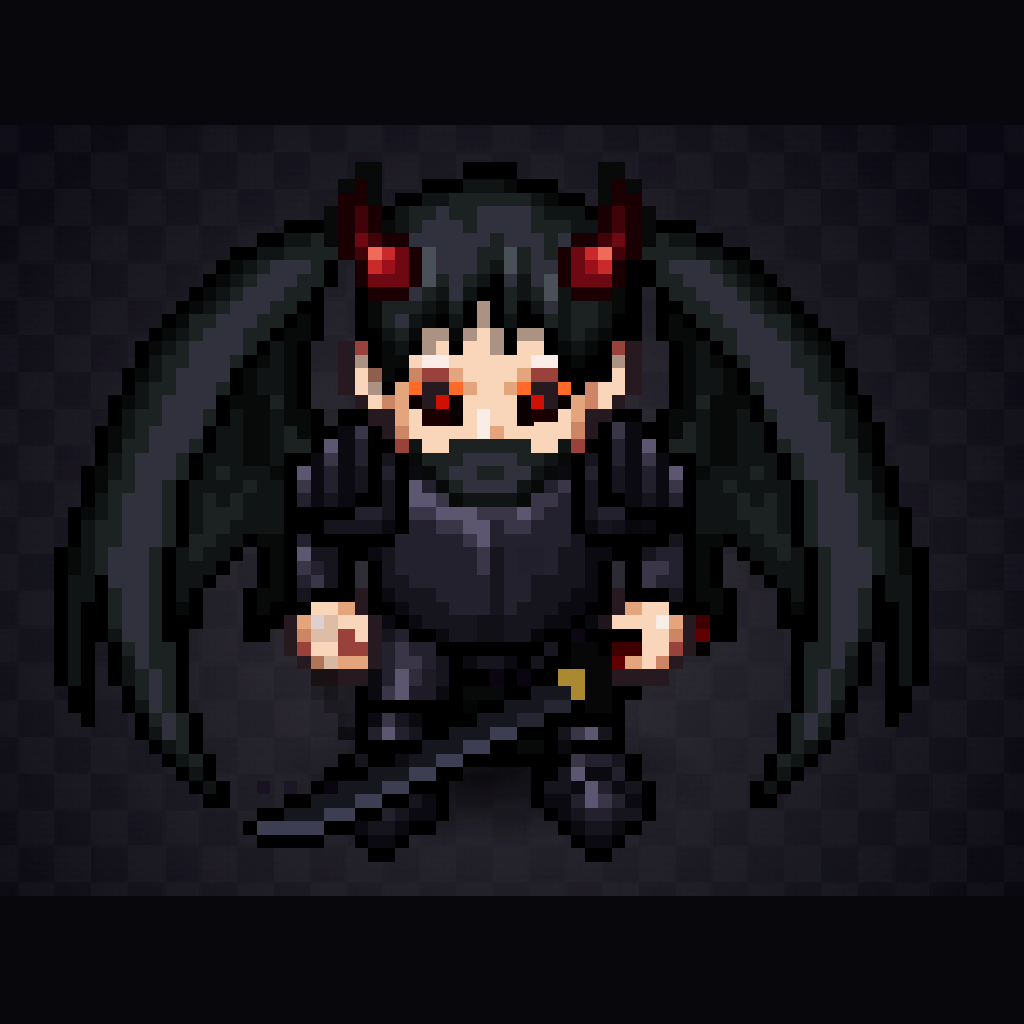
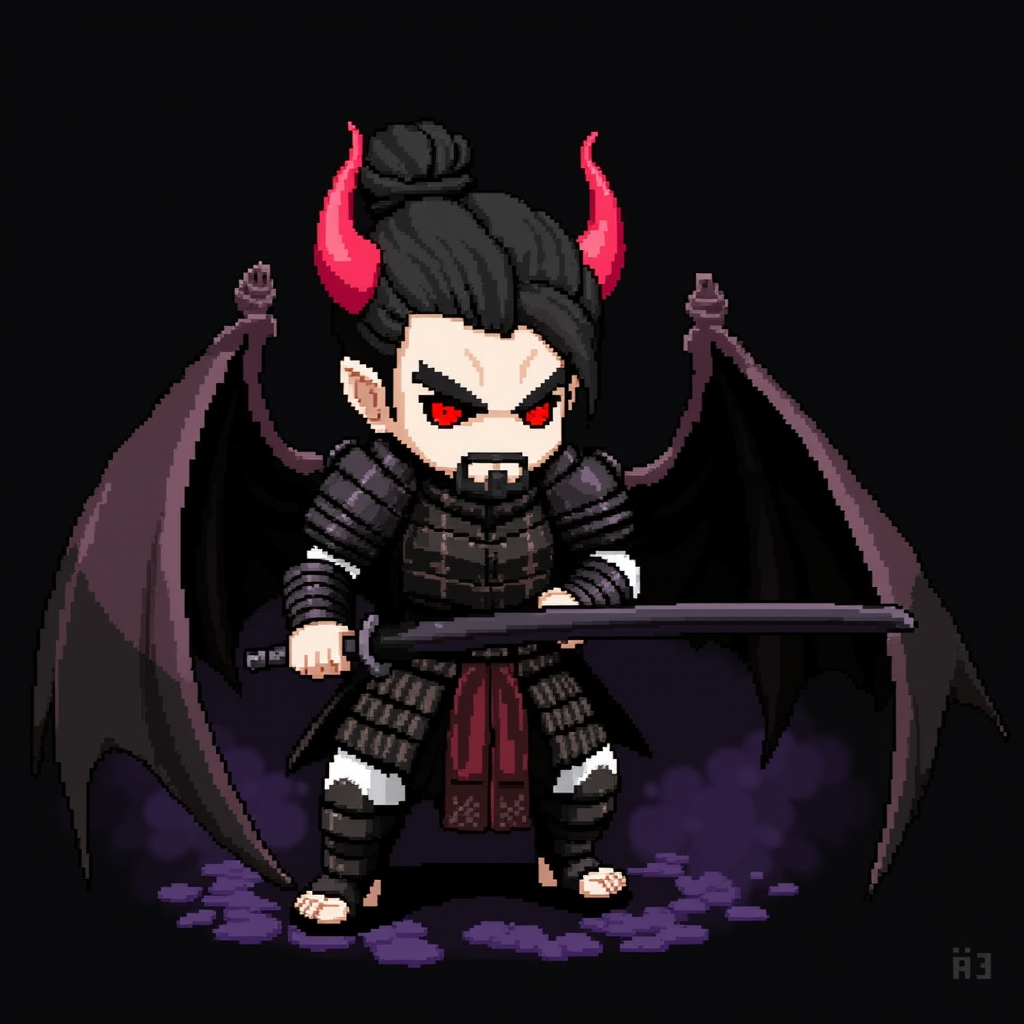
feat: Void Sun 3.4.2 — samurai do logotipo é homem; veios de brasa do Daédrico em qualquer cor

diff --git a/src/avatar/forge.ts b/src/avatar/forge.ts
@@ -16,17 +16,21 @@ export interface Forge {
   trim?: string | 'light';
   /** Marca no peito. */
   sigil?: 'ridges' | 'rune' | 'sun' | 'cross' | 'gem' | 'ribs';
+  /** Veios de brasa nas frestas e nos brilhos da peça, seja qual for a cor do metal. */
+  veins?: boolean;
   /** Cor da marca e das pontas (quando não é a do metal). */
   accent?: string;
 }
 
 /** A brasa das peças daédricas (o boneco animado faz esses pontos pulsarem). */
 export const EMBER = '#ff5a2a';
+/** Brasa escura: o veio nas frestas das placas. */
+export const EMBER_DARK = '#7a0c10';
 /** Brasa média: as arestas das quilhas e o corpo das pontas. */
 export const EMBER_MID = '#d2381c';
 
 export const FORGES: Record<string, Forge> = {
-  daedric: { pt: 'Daédrico', en: 'Daedric', spikes: 'horn', sigil: 'ridges', accent: EMBER },
+  daedric: { pt: 'Daédrico', en: 'Daedric', spikes: 'horn', sigil: 'ridges', veins: true, accent: EMBER },
   ebony: { pt: 'Ébano', en: 'Ebony', texture: 'bands', trim: '#a9a3c4' },
   dragon: { pt: 'Sangue de dragão', en: 'Dragonblood', texture: 'scales', spikes: 'bone', accent: '#ffd9a0' },
   frost: { pt: 'Guardião do gelo', en: 'Frost warden', texture: 'facets', spikes: 'crystal', accent: '#ffffff' },
@@ -103,6 +107,16 @@ export function forge(ctx: CanvasRenderingContext2D, slot: SlotId, style: string
     const front = rows === 1 || r === 2, back = rows > 1 && r === 0;
     // (as mudanças são decididas com a peça original e aplicadas depois, para uma não interferir na outra)
     const todo: [number, number, readonly [number, number, number]][] = [];
+
+    if (plates && f.veins) {
+      // os veios vêm dos tons da própria peça (a sombra das frestas e o brilho), então existem em qualquer cor
+      const vein = rgb(EMBER_DARK);
+      for (let y = by; y <= ey; y++) for (let x = bx; x <= ex; x++) {
+        if (!solid(x0 + x, y0 + y)) continue;
+        const t = tone(x0 + x, y0 + y);
+        if (t === 1) todo.push([x, y, vein]); else if (t === 5) todo.push([x, y, accent]);
+      }
+    }
 
     if (plates && f.texture) {
       for (let y = by; y <= ey; y++) for (let x = bx; x <= ex; x++) {

diff --git a/src/avatar/lpc.ts b/src/avatar/lpc.ts
@@ -7,7 +7,7 @@
  * tools/lpc/montar.py). Créditos dos artistas: src/data/lpc-credits.json.
  */
 import raw from '../data/lpc.json';
-import { cover, EMBER, EMBER_MID, forge, FORGES } from './forge';
+import { cover, EMBER, EMBER_DARK, EMBER_MID, forge, FORGES } from './forge';
 
 export type Body = 'male' | 'female' | 'muscular';
 export type Anim = 'idle' | 'walk' | 'slash' | 'thrust' | 'shoot' | 'spellcast' | 'hurt';
@@ -358,7 +358,7 @@ async function build(av: Avatar, anim: Anim): Promise<Sheet> {
   let glow: HTMLCanvasElement | undefined;
   const ember = LPC.palettes.metal.colors.daedric;
   if (ember && Object.values(av.parts).some((p) => p?.color === 'daedric' || p?.style === 'daedric')) {
-    const veins = [ember[1], ember[5], EMBER, EMBER_MID].map(rgb);
+    const veins = [ember[1], ember[5], EMBER, EMBER_DARK, EMBER_MID].map(rgb);
     const src = ctx.getImageData(0, 0, canvas.width, canvas.height).data;
     const g = layer(), data = g.createImageData(canvas.width, canvas.height), d = data.data;
     let any = false;

diff --git a/src/ui/home/Splash.svelte b/src/ui/home/Splash.svelte
@@ -36,7 +36,7 @@
     band.addColorStop(0, 'rgb(255 255 255 / 0)'); band.addColorStop(0.5, 'rgb(255 255 255 / .035)'); band.addColorStop(1, 'rgb(255 255 255 / 0)');
     /** Onde a figura ficou na tela, e a lâmina da katana dentro dela (de onde sobe a fumaça). */
     let fig: { x: number; y: number } | null = null;
-    const BLADE = { x0: 56, x1: 106, y: 67 }, SMOKE = ['#a274ff', '#6f48c0', '#43307a', '#231a3c'];
+    const BLADE = { x0: 46, x1: 110, y: 63 }, SMOKE = ['#a274ff', '#6f48c0', '#43307a', '#231a3c'];
     let raf = 0, t0 = 0, exitAt = Infinity, exitLen = 520, over = false;
 
     /** A janela cabe um número inteiro de vezes na grade: cada ponto do desenho vira um quadrado exato. */

diff --git a/tools/comfyui/gerar_telas.py b/tools/comfyui/gerar_telas.py
@@ -30,14 +30,13 @@ ARTS = [
      "vertical composition: two rival heroes facing each other in a duel on a dark stone arena, on the left an armored knight with a sword and red cape, on the right a hooded mage with a glowing blue staff, "
      "both in profile, sparks between them, under a black sun in total eclipse with a thin white-gold corona in a deep indigo starry sky."),
     # logotipo do desenvolvedor (tela de abertura): fundo preto liso, para assentar sobre a tela preta
-    # (parte de uma foto do boneco do jogo, em tools/comfyui/ref: a figura sai parecida com ele, com mais detalhe e uma guitarra)
-    ('estudio', 117, 1024, 1024,
-     "one single full body chibi game character sprite on a plain pure black background: a small evil demon dark samurai with a big head and a small body, "
-     "standing in a low samurai fighting stance with legs apart, holding a katana with both hands, the long katana blade is pure black and points diagonally upward, "
-     "thick black and purple smoke rises from the black blade. "
-     "Very long straight black hair in two big twin tails, two short curved bright red horns on top of the head, glowing red eyes with a cruel evil glare under angry brows, a pale face, "
-     "the mouth is closed in a thin cold line. Two large demon bat wings spread wide open behind the back, each wing with clearly drawn bony fingers and dark crimson membranes between them. "
-     "Black samurai armor: layered lamellar shoulder guards, black chest plate tied with dark red cords, black armored skirt plates, black boots. "
+    # (parte da arte aprovada, em tools/comfyui/ref: `denoise` baixo mexe pouco nela)
+    ('estudio', 131, 1024, 1024,
+     "one single full body chibi game character sprite on a plain pure black background: a small evil male demon dark samurai, a man, with a big head and a small body, "
+     "standing in a low samurai fighting stance with legs apart, holding a black katana horizontally with both hands, thick black and purple smoke around his feet and rising from the blade. "
+     "He is clearly a man: a masculine face with a strong square jaw, thick angry black eyebrows, narrow glowing red eyes with a cruel evil glare, a dark stubble beard on the chin, "
+     "the mouth closed in a thin cold line. Black hair tied up in a samurai topknot with loose strands, two curved bright red horns on top of the head, a pale face. "
+     "Two large dark demon bat wings spread open behind his back. Broad shoulders. Black samurai armor: layered lamellar shoulder guards, black chest plate tied with dark red cords, black armored skirt plates, black boots. "
      "Simple readable shapes, the whole figure from the horns and wing tips to the feet inside the frame, centered, with empty black space around it. Flat black background, nothing else."),
     ('campanha', 43, 1024, 1280,
      "vertical composition: a winding road through a dark fantasy world map landscape seen from a high cliff, distant ruined castle, dead forest, mountains and a glowing violet rift on the horizon, "
@@ -87,7 +86,7 @@ for aid, seed, w, h, prompt in ARTS:
         t0 = time.time()
         if aid == 'estudio':
             shutil.copy(os.path.join(os.path.dirname(os.path.abspath(__file__)), 'ref', 'estudio-ref.png'), os.path.join(os.path.expanduser('~/ComfyUI/input'), 'estudio-ref.png'))
-            g = wf(prompt, seed * 100 + v, w, h, fig=True, init='estudio-ref.png', denoise=[0.86, 0.92, 0.96, 1.0][(v - 1) % 4])
+            g = wf(prompt, seed * 100 + v, w, h, fig=True, init='estudio-ref.png', denoise=[0.55, 0.64, 0.72, 0.8][(v - 1) % 4])
         else: g = wf(prompt, seed * 100 + v, w, h)
         pid = post('/prompt', {"prompt": g})['prompt_id']
         while True:

diff --git a/progress.md b/progress.md
@@ -4,6 +4,11 @@
 **Como abrir:** atalho *Void Sun* no menu de aplicativos, ou o script `Void Sun` na pasta.
 **Código antigo:** preservado no git na etiqueta `legado-v1`. Até a 2.9 o programa se chamava Darkstar Forge.
 
+## Versão 3.4.2 (02/10/2026)
+
+- [x] Logotipo: o samurai sombrio agora é homem (cavanhaque, coque), com asas de morcego de membrana e a lâmina negra à mostra
+- [x] Peças daédricas têm os veios de brasa em qualquer cor, não só na cor do conjunto
+
 ## Versão 3.4.1 (02/10/2026)
 
 - [x] Logotipo: samurai sombrio (boca fechada, olhar cruel, asas de demônio, katana negra) no lugar do guitarrista; fumaça negra e roxa sobe da lâmina
